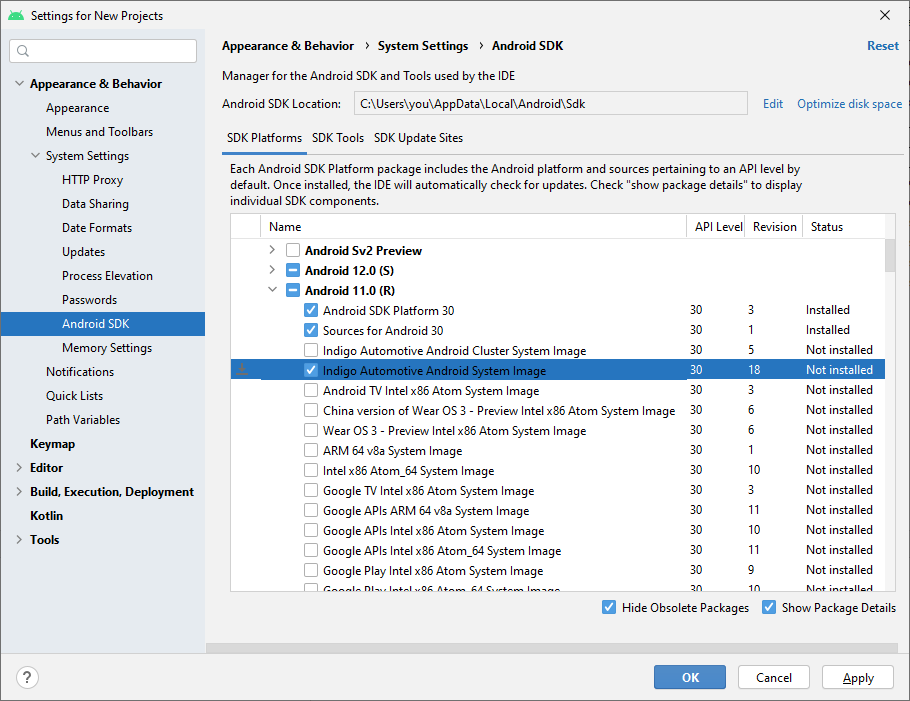
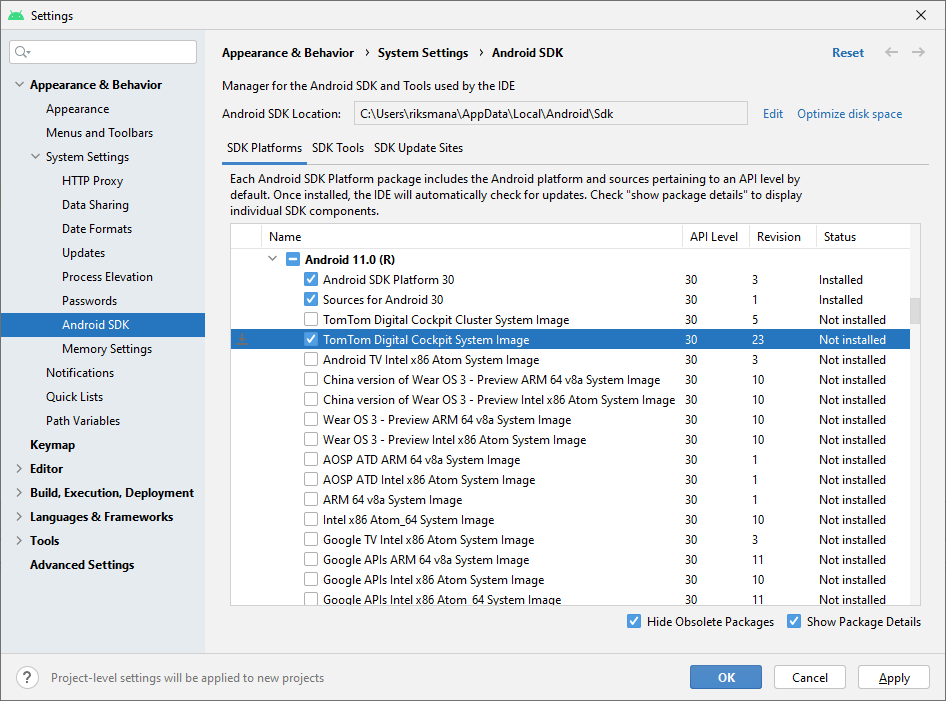
Merged PR 26707: IVI-8801: Update portal for emulator name change
Update the developer portal for name changes IndiGO -> Digital Cockpit in the emulator images.

diff --git a/docs/portal/src/documentation/getting-started/the-tomtom-indigo-emulator.md b/docs/portal/src/documentation/getting-started/the-tomtom-indigo-emulator.md
@@ -28,12 +28,12 @@ Follow these steps to install the TomTom IndiGO emulator image in Android Studio
 - Open the SDK Manager via `Tools` > `SDK Manager`.
 
 - Select tab `SDK Update Sites` and add a new entry:
-  - Name: `TomTom IndiGO - Android 11 Emulators`
-  - URL: `https://aaos.blob.core.windows.net/indigo-automotive/repo-sys-img.xml`
+  - Name: `TomTom Digital Cockpit - Android 11 Emulators`
+  - URL: `https://aaos.blob.core.windows.net/tomtom-digital-cockpit/repo-sys-img.xml`
   - Leave `Use Authentication` unchecked, and click `OK`.
 
 - Add another `SDK Update Sites` entry:
-  - Name: `TomTom IndiGO - Artifact Repository`
+  - Name: `TomTom Digital Cockpit - Artifact Repository`
   - URL: `https://repo.tomtom.com/`
   - Tick `Use Authentication`, enter your TomTom
     [repository credentials](/tomtom-indigo/documentation/getting-started/introduction)
@@ -42,14 +42,14 @@ Follow these steps to install the TomTom IndiGO emulator image in Android Studio
 - __Note__ the `s` in `https://`, because Android Studio proposes a default URL as `http://`.
 
 - Click `Apply` to activate these update sites.
-  - The `TomTom IndiGO - Android 11 Emulators` entry should not show an error.
-  - The `TomTom IndiGO - Nexus repository` entry will show an error, which you can ignore.
+  - The `TomTom Digital Cockpit - Android 11 Emulators` entry should not show an error.
+  - The `TomTom Digital Cockpit - Artifact Repository` entry will show an error, which you can ignore.
 
 ![Android Studio - SDK Update Sites](images/android_studio_sdk_update_sites.png)
 
 - Switch to tab `SDK platforms` and tick `Show Package Details` on the bottom right.
 
-- Expand the `Android 11 (R)` section, enable the `IndiGO Automotive Android System Image` and click
+- Expand the `Android 11 (R)` section, enable the `TomTom Digital Cockpit System Image` and click
   `Apply` to start downloading this image.
 
 ![Android Studio - SDK download list](images/android_studio_sdk_platforms_download_list.png)
@@ -67,20 +67,21 @@ Android Virtual Device (AVD) with it:
 
 - Select tab `Virtual` and click `Create device`. You should now see a list of device definitions.
 
-- In the `Automotive` category, select item `IndiGO_Test_Device`, then click `Next`:
+- In the `Automotive` category, select item `TomTom_Digital_Cockpit_Test_Device`, then click `Next`:
 
+[TODO(IVI-8801)]: # (Update image after IviEmulatorsPlugin.kt changes have been released)
 ![Android Studio - Select Hardware](images/android_studio_select_hardware.png)
 
 - In the `System Image` dialog, go to tab `x86 Images` and select the upper entry:
   - `Release Name` : `R`
   - `API level` : `30`
   - `ABI` : `x86_64`
-  - `Target` : `Android 11.0 (IndiGO Automotive Android System Image)`
+  - `Target` : `Android 11.0 (TomTom Digital Cockpit System Image)`
   - __Note:__ The entries displayed differ only in the last part of their `Target` field.
 
 - __Mac _with_ an M1 processor:__ Go to tab `Other Images` and select `Android S` for `arm64-v8a` as
-  the System Image. This is a standard Android image, without TomTom IndiGO-specific customizations
-  or Android Automotive features!
+  the System Image. This is a standard Android image, without TomTom IndiGO-specific
+  customizations or Android Automotive features!
 
 ![Android Studio - System Image](images/android_studio_android_r.png)
 
@@ -97,19 +98,22 @@ Android Virtual Device (AVD) with it:
 
 - You now see a new TomTom IndiGO emulator device listed in the Device Manager:
 
-![Android Studio - TomTom IndiGO Emulator Device](images/android_studio_tomtom-indigo_emulator_device.png)
+[TODO(IVI-8801)]: # (Update image after IviEmulatorsPlugin.kt changes have been released)
+![Android Studio - TomTom IndiGO Emulator Device](images/android_studio_emulator_device.png)
 
 ## Running the TomTom IndiGO emulator
 
 - Click the triangular `play` icon on the right to start the emulator.
 - When the emulator has started, it shows inside a `Device Manager` subwindow:
 
-![Android Studio - TomTom IndiGO Emulator In Device Manager](images/android_studio_tomtom-indigo_emulator_in_device_manager.png)
+[TODO(IVI-8801)]: # (Update image after IviEmulatorsPlugin.kt changes have been released)
+![Android Studio - TomTom IndiGO Emulator In Device Manager](images/android_studio_emulator_in_device_manager.png)
 
 - To show the emulator in its own window, click the `Settings` icon in the top-right corner of the
   emulator panel and select `View Mode` > `Window`:
 
-![Android Studio - TomTom IndiGO Emulator Window](images/android_studio_tomtom-indigo_emulator_window.png)
+[TODO(IVI-8801)]: # (Update image after IviEmulatorsPlugin.kt changes have been released)
+![Android Studio - TomTom IndiGO Emulator Window](images/android_studio_emulator_window.png)
 
 - Enable wifi, to allow the emulator network access:
   - Click the Home button (circle) in the top bar of the emulator screen.
@@ -127,10 +131,12 @@ Android Virtual Device (AVD) with it:
     picture below.
   - Close the `Extended Controls` dialog.
 
+[TODO(IVI-8801)]: # (Update image after IviEmulatorsPlugin.kt changes have been released)
 ![Emulator - OpenGL Settings](images/emulator_opengl_settings.png)
 
 - Now restart the emulator, for the new settings to take effect:
-  - Close the `IndiGO Test Device API 30` tab in the emulator window to stop the emulator.
+  - Close the `TomTom Digital Cockpit Test Device API 30` tab in the emulator
+    window to stop the emulator.
   - In Android Studio go to: `Tools` > `Device Manager`.
   - On the right-hand side of each configured AVD there is a down-arrow that opens a context menu.
     Press the down-arrow (instead of pressing the green Play button), and select `Cold Boot Now`.
@@ -141,7 +147,8 @@ Android Virtual Device (AVD) with it:
     background without access to its user interface.
 </Blockquote>
 
-![Android Studio TomTom IndiGO Emulator Cold Boot](images/android_studio_tomtom-indigo_emulator_cold_boot.png)
+[TODO(IVI-8801)]: # (Update image after IviEmulatorsPlugin.kt changes have been released)
+![Android Studio TomTom IndiGO Emulator Cold Boot](images/android_studio_emulator_cold_boot.png)
 
 - Go to the emulator window and wait for the emulator to start up.
 
@@ -151,16 +158,19 @@ Android Virtual Device (AVD) with it:
     the application will run on.
   - Build and run the application by clicking the green `play` icon.
 
+[TODO(IVI-8801)]: # (Update image after IviEmulatorsPlugin.kt changes have been released)
 ![Android Studio - Build and run](images/android_studio_build_and_run.png)
 
 - When the application starts, you must select `IVI Template App` as the default phone app.
 
+[TODO(IVI-8801)]: # (Update image after IviEmulatorsPlugin.kt changes have been released)
 ![Emulator Default Phone App](images/emulator_default_phone_app.png)
 
 - You will now see the TomTom IndiGO home screen. Note that map data shows only when you have
   [installed an on-board map](/tomtom-indigo/documentation/getting-started/accessing-the-map-data)
   and the current location is inside this map.
 
+[TODO(IVI-8801)]: # (Update image after IviEmulatorsPlugin.kt changes have been released)
 ![TomTom IndiGO Home Screen](images/tomtom-indigo_home_screen.png)
 
 __Next step:__
